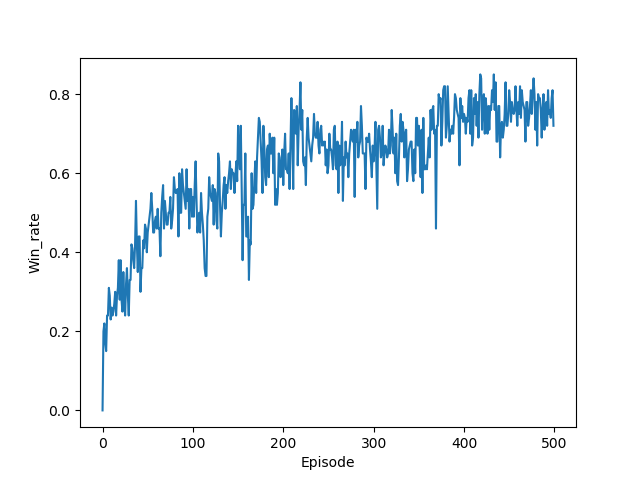
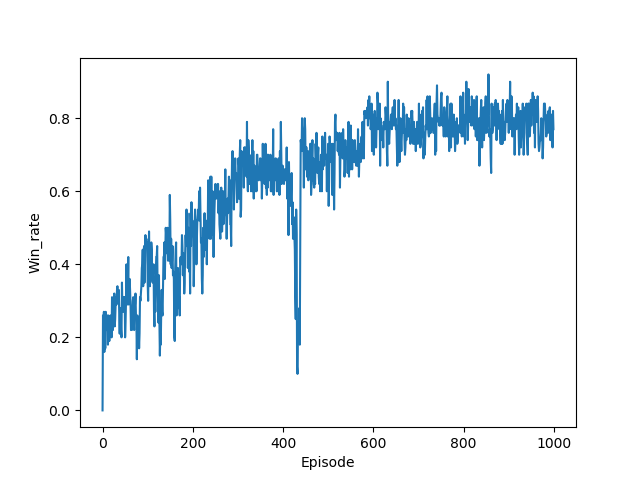
增加网络大小，最后探索概率为0.01，效果大概在80%左右

diff --git a/2 Missile_fight/main_DQN.py b/2 Missile_fight/main_DQN.py
@@ -10,10 +10,10 @@ env = Missile.MissileAI()
 RL = D3QN.DQN(env.action_dim, env.state_dim,
               memory_size=1000, batch_size=64,
               learning_rate=0.001, dueling=True, double=True,
-              e_greedy_end=0.05, e_liner_times=9000,units = 100,
+              e_greedy_end=0.01, e_liner_times=20000,units = 200,
               train=True,replace_target_iter = 50,gamma = 0.95)
 step = 0
-episodes = 50000
+episodes = 100000
 win_rate = []
 win = 0
 for episode in range(episodes):
